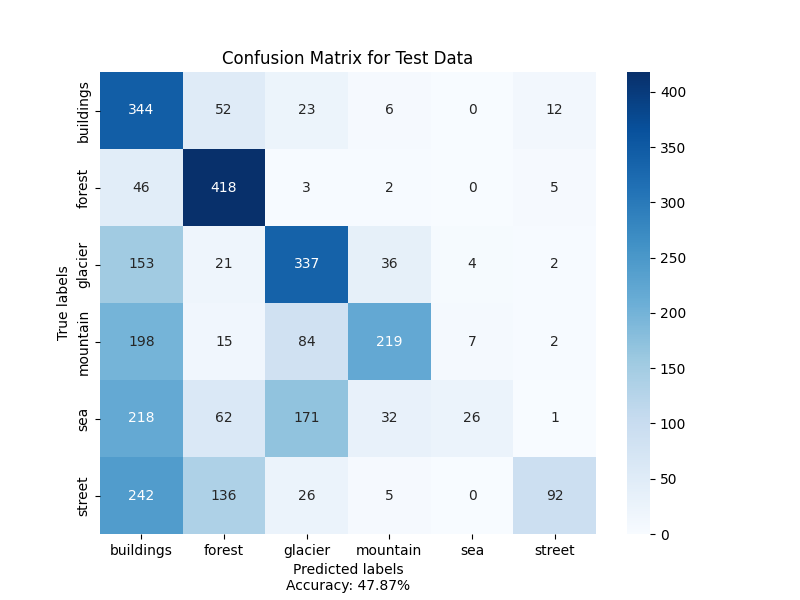
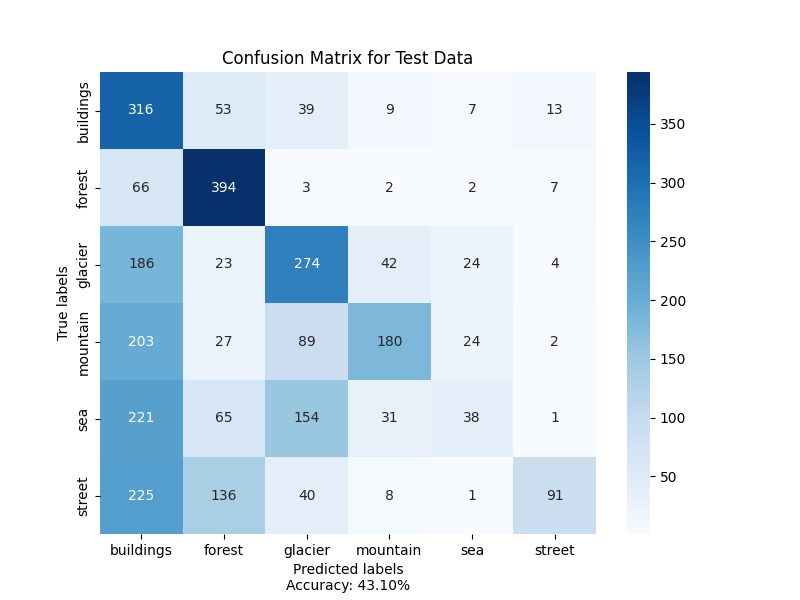
Finishing CNN and EDA

diff --git a/Assignment1/cnn_model.py b/Assignment1/cnn_model.py
@@ -2,6 +2,8 @@ import numpy as np
 import tensorflow as tf 
 import os
 import matplotlib.pyplot as plt
+import seaborn as sns
+import pandas as pd
 
 from tensorflow.keras.applications import VGG16
 from tensorflow.keras.applications.vgg16 import preprocess_input
@@ -12,6 +14,11 @@ from tensorflow.keras.models import Model
 from tensorflow.keras.optimizers import Adam
 
 from sklearn.metrics import confusion_matrix, classification_report, accuracy_score
+from sklearn.model_selection import train_test_split
+
+
+
+# Preprocessing:
 
 # Parameters for images
 img_size = (256,256)
@@ -19,17 +26,80 @@ batch_size = 64
 num_classes = 6
 epochs = 1
 
+# Define the directories
+train_dir = os.path.join(os.path.dirname(os.path.realpath(__file__)), "Intel_Image_classification", "seg_train", "seg_train")
+test_dir = os.path.join(os.path.dirname(os.path.realpath(__file__)), "Intel_Image_classification", "seg_test", "seg_test")
+
+# List all subdirectories (classes) in the train directory
+classes = os.listdir(train_dir)
+
+# Create a list to hold the file paths of all images in the train directory
+train_files = []
+for cls in classes:
+    cls_dir = os.path.join(train_dir, cls)
+    cls_files = [os.path.join(cls_dir, f) for f in os.listdir(cls_dir)]
+    train_files.extend(cls_files)
+
+# Create a DataFrame with file paths and labels to ensure proper train test split
+train_df = pd.DataFrame({'filepath': train_files, 'label': [os.path.basename(os.path.dirname(f)) for f in train_files]})
+
+# Train-test split for the DataFrame
+train_df, val_df = train_test_split(train_df, test_size=0.2, shuffle=True, random_state=42)   
+
+# Define ImageDataGenerator for train and validation data
+train_datagen = ImageDataGenerator(preprocessing_function=preprocess_input, horizontal_flip=True, rotation_range=30 ,fill_mode='nearest')
+val_datagen = ImageDataGenerator(preprocessing_function=preprocess_input, horizontal_flip=True, rotation_range=30 ,fill_mode='nearest')
+test_datagen = ImageDataGenerator(preprocessing_function=preprocess_input)
+
+# Flow from DataFrame for train and validation data
+train_gen = train_datagen.flow_from_dataframe(
+    train_df,
+    x_col='filepath',
+    y_col='label',
+    target_size=img_size,
+    batch_size=batch_size,
+    class_mode='categorical'
+)
+val_gen = val_datagen.flow_from_dataframe(
+    val_df,
+    x_col='filepath',
+    y_col='label',
+    target_size=img_size,
+    batch_size=batch_size,
+    class_mode='categorical'
+)
+test_gen = test_datagen.flow_from_directory(
+    test_dir,
+    target_size=img_size,
+    batch_size=batch_size,
+    class_mode='categorical',
+    shuffle=False)
+
+
+
+
+
+#--------------------------------------------
+# Model Building: VGG16
+
+
+
+
 # Load VGG16
 base_model = VGG16(weights='imagenet', include_top=False, input_shape=(256,256,3))
 
-# Freeze layers to prevent weight updates
+# Fine-tuning: Unfreeze some layers of VGG16
 for layer in base_model.layers:
     layer.trainable = False
-    
+
 # Add custom layers
 x = Flatten()(base_model.output)
-x = Dense(1024, activation='relu')(x)
+x = Dense(1024, activation="relu")(x)
 x = Dropout(0.5)(x)
+x = BatchNormalization()(x)
+x = Dense(512, activation="relu")(x)
+x = BatchNormalization()(x)
+x = Dense(256, activation="relu")(x)
 x = BatchNormalization()(x)
 output = Dense(num_classes, activation="softmax")(x)
 
@@ -37,7 +107,7 @@ output = Dense(num_classes, activation="softmax")(x)
 model = Model(inputs=base_model.input, outputs=output)
 
 # Early Stopping
-early_stopping = EarlyStopping(monitor='val_loss', patience=3, restore_best_weights=True)
+early_stopping = EarlyStopping(monitor='val_loss', patience=2, restore_best_weights=True)
 
 # Compile
 model.compile(optimizer=Adam(), loss='categorical_crossentropy', metrics=['accuracy'])
@@ -45,38 +115,58 @@ model.compile(optimizer=Adam(), loss='categorical_crossentropy', metrics=['accur
 
 #--------------------------------------------
 
-# Load and Preprocess Data
-
-# Define the directories
-train_dir = os.path.join(os.path.dirname(os.path.realpath(__file__)), "Intel_Image_classification", "seg_train", "seg_train")
-test_dir = os.path.join(os.path.dirname(os.path.realpath(__file__)), "Intel_Image_classification", "seg_test", "seg_test")
-
-
-train_datagen = ImageDataGenerator(preprocessing_function=preprocess_input)
-test_datagen = ImageDataGenerator(preprocessing_function=preprocess_input)
-
-train_gen = train_datagen.flow_from_directory(
-    train_dir,
-    target_size=img_size,
-    batch_size=batch_size,
-    class_mode='categorical')
-test_gen = test_datagen.flow_from_directory(
-    test_dir,
-    target_size=img_size,
-    batch_size=batch_size,
-    class_mode='categorical')
-
-
-
 # Fit the model
-model.fit(
+history = model.fit(
     train_gen,
-    validation_data=test_gen,
+    validation_data=val_gen,
     epochs=epochs,
     steps_per_epoch=len(train_gen),
-    validation_steps=len(test_gen), 
+    validation_steps=len(val_gen), 
     callbacks=[early_stopping]
 )
 
 # Save the model
 model.save("model.h5")
+
+# Plot training and validation loss
+plt.plot(history.history['loss'], label='Train Loss')
+plt.plot(history.history['val_loss'], label='Val Loss')
+plt.xlabel('Epoch')
+plt.ylabel('Loss')
+plt.legend()
+plt.title('Training and Validation Loss')
+plt.savefig("Training and Validation Loss of CNN Model" + ".png")
+plt.show()
+
+
+# -----------------------------------------------
+
+# Make evaluation on the test data
+model.evaluate(test_gen)
+
+# Confusion Matrix for test dir
+# Run for each file in the test directory and create matrix
+predictions = model.predict(test_gen)
+
+y_pred = np.argmax(predictions, axis=1)
+y_true = test_gen.classes
+
+
+# Get the confusion matrix
+cm = confusion_matrix(y_true, y_pred)
+total_predictions = np.sum(cm)
+accuracy = np.trace(cm) / total_predictions * 100
+
+plt.figure(figsize=(8, 6))
+sns.heatmap(cm, annot=True, fmt='', cmap='Blues', xticklabels=classes, yticklabels=classes)
+plt.xlabel('Predicted labels\nAccuracy: {:.2f}%'.format(accuracy))
+plt.ylabel('True labels')
+plt.title("Confusion Matrix - CNN Model for Test Data")
+plt.savefig("Confusion Matrix of Test Data for CNN Model" + ".png")
+plt.show()
+
+
+# Classification report for test data
+print("Classification report for Test Data: \n", classification_report(y_true, y_pred))
+print("Legend for the classes: ")
+print("(0: 'buildings', 1: 'forest', 2: 'glacier', 3: 'mountain', 4: 'sea', 5: 'street')")

diff --git a/Assignment1/eda.py b/Assignment1/eda.py
@@ -1,0 +1,74 @@
+import os
+import matplotlib.pyplot as plt
+from PIL import Image
+
+
+
+def eda(data_dir, name):
+    # List all subdirectories (classes) in the dataset directory
+    classes = os.listdir(data_dir)
+
+    # Display the number of classes
+    print("Number of classes:", len(classes))
+
+    # Display the number of images in each class
+    total = 0
+    for cls in classes:
+        cls_dir = os.path.join(data_dir, cls)
+        num_images = len(os.listdir(cls_dir))
+        print(f"Class: {cls}, Number of images: {num_images}")
+        total += num_images
+    print("Total number of images: ", total)
+
+    # Visualize class distribution
+    plt.figure(figsize=(10, 6))
+    plt.bar(classes, [len(os.listdir(os.path.join(data_dir, cls))) for cls in classes])
+    plt.xlabel('Classes')
+    plt.ylabel('Number of Images')
+    plt.title('Class Distribution')
+    plt.xticks(rotation=45)
+    plt.savefig(name+"_class_distribution.png")
+
+    # Display sample images from each class
+    plt.figure(figsize=(12, 8))
+    for i, cls in enumerate(classes, 1):
+        cls_dir = os.path.join(data_dir, cls)
+        img_file = os.listdir(cls_dir)[0]  # Display the first image from each class
+        img_path = os.path.join(cls_dir, img_file)
+        img = Image.open(img_path)
+        plt.subplot(2, 3, i)
+        plt.imshow(img)
+        plt.title(cls)
+        plt.axis('off')
+    plt.savefig(name+"_sample_images.png")
+
+
+    # Calculate and visualize image sizes
+    image_sizes = []
+    for cls in classes:
+        cls_dir = os.path.join(data_dir, cls)
+        for img_file in os.listdir(cls_dir):
+            img_path = os.path.join(cls_dir, img_file)
+            img = Image.open(img_path)
+            width, height = img.size
+            image_sizes.append((width, height))
+
+    widths, heights = zip(*image_sizes)
+    plt.figure(figsize=(10, 6))
+    plt.hist(widths, bins=20, alpha=0.5, label='Width')
+    plt.hist(heights, bins=20, alpha=0.5, label='Height')
+    plt.xlabel('Image Size')
+    plt.ylabel('Frequency')
+    plt.title('Image Size Distribution')
+    plt.legend()
+    plt.savefig(name + "_image_size_distribution.png")
+
+
+
+
+train_dir = os.path.join(os.path.dirname(os.path.realpath(__file__)), "Intel_Image_classification", "seg_train", "seg_train")
+eda(train_dir, "train")
+
+test_dir = os.path.join(os.path.dirname(os.path.realpath(__file__)), "Intel_Image_classification", "seg_test", "seg_test")
+eda(test_dir, "test")
+

diff --git a/Assignment1/cnn_pred_testing.py b/Assignment1/cnn_pred_testing.py
@@ -2,6 +2,7 @@ import os
 import numpy as np
 import tensorflow as tf 
 import matplotlib.pyplot as plt
+import random
 from tensorflow.keras.applications.vgg16 import preprocess_input
 from tensorflow.keras.preprocessing.image import load_img, img_to_array
 from tensorflow.keras.models import load_model
@@ -14,12 +15,15 @@ pred_dir = os.path.join(os.path.dirname(os.path.realpath(__file__)), "Intel_Imag
 
 # Get a list of image file names in the directory
 image_files = os.listdir(pred_dir)
-image_files = image_files[5:]
+
+# Randomly select 10 images
+random_images = random.sample(image_files, 10)
+
 # List to store predictions
 predictions = []
 
-# Loop through each image file
-for image_file in image_files:
+# Loop through each randomly selected image file
+for image_file in random_images:
     # Load the image
     image_path = os.path.join(pred_dir, image_file)
     image = load_img(image_path, target_size=(256, 256))
@@ -49,7 +53,7 @@ for image_file in image_files:
     plt.imshow(load_img(image_path))
     plt.title(f"Predicted Class: {predicted_class}")
     plt.axis('off')
-    plt.savefig(image_file+'.png')
+    plt.savefig(image_file+'_prediction.png')
     plt.show()
     
     # Store the predictions

diff --git a/Assignment1/random_forest_model.py b/Assignment1/random_forest_model.py
@@ -21,7 +21,7 @@ X_test = unpickle_data("X_test.pkl")
 y_train = unpickle_data("y_train.pkl")
 y_test = unpickle_data("y_test.pkl")
 
-rfc = rfc(n_estimators=100, random_state=50)
+rfc = rfc(n_estimators=10, random_state=50)
 
 rfc.fit(X_train, y_train)
 
